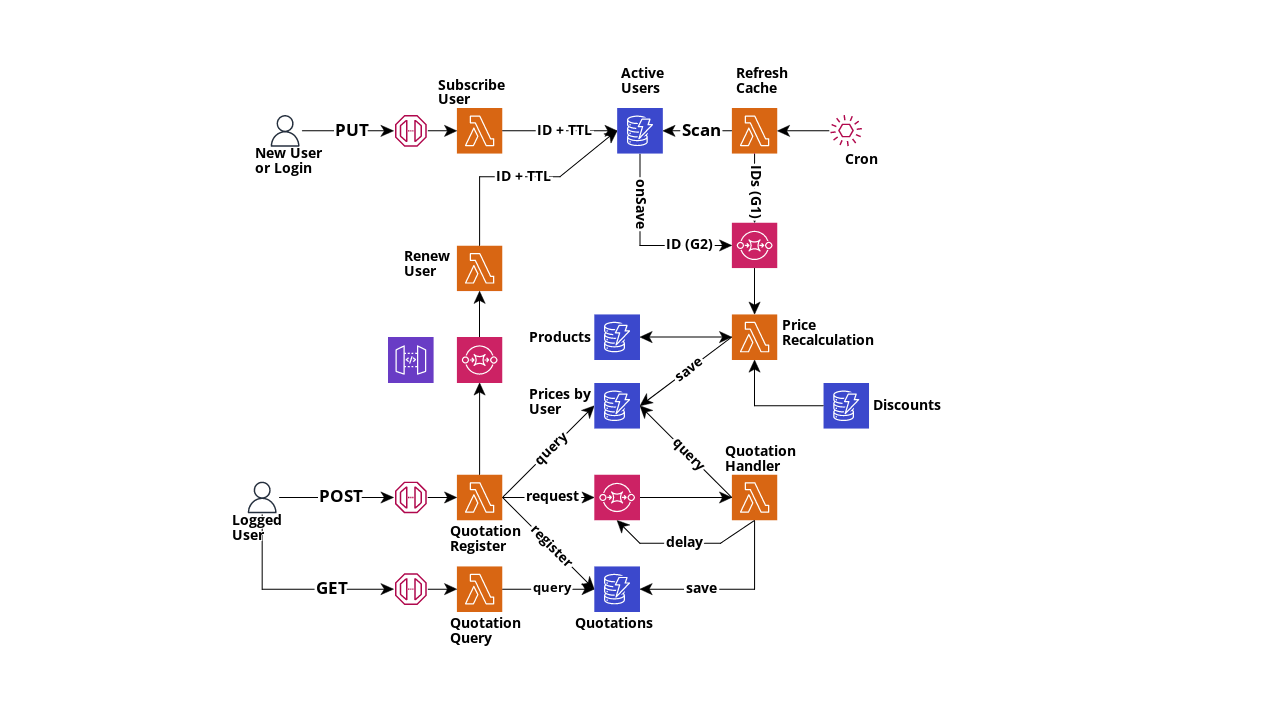
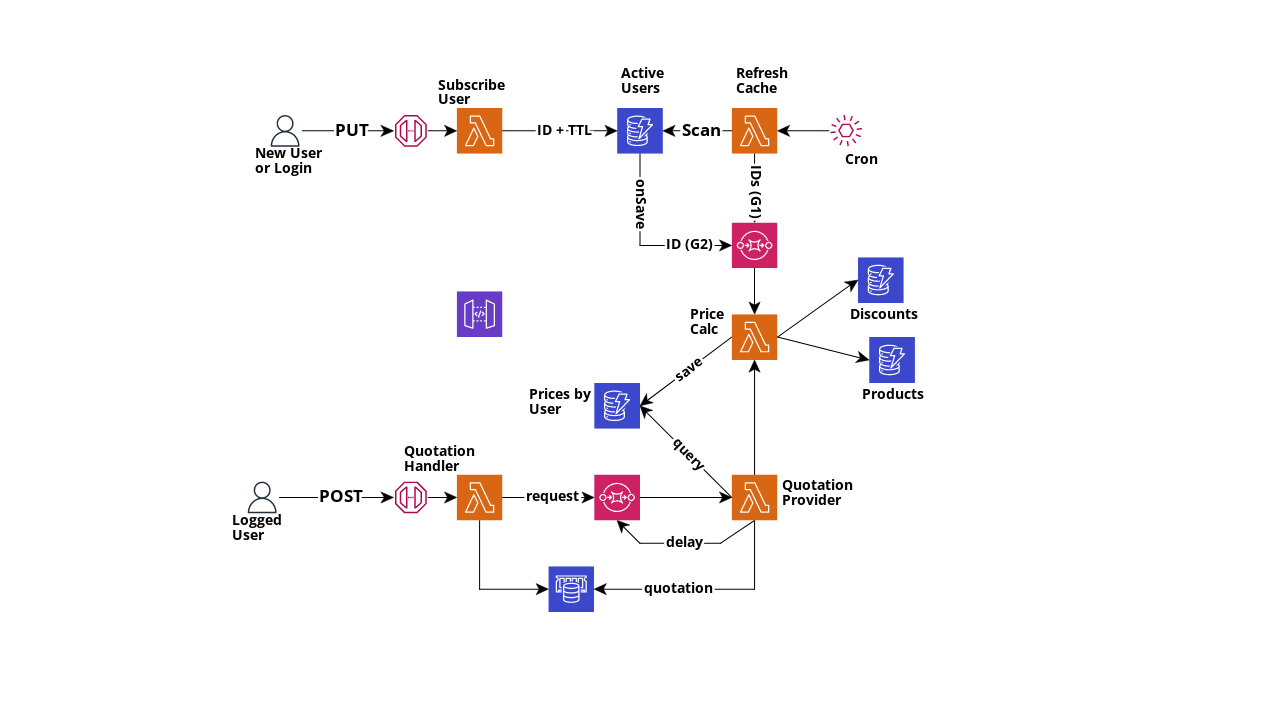
quotation and price calc integration

diff --git a/lambda_quotation_provider/handler/handler.go b/lambda_quotation_provider/handler/handler.go
@@ -9,11 +9,11 @@ import (
 	"time"
 
 	"github.com/aws/aws-lambda-go/events"
-	"github.com/aws/aws-lambda-go/lambda"
+	inv "github.com/aws/aws-lambda-go/lambda"
 	"github.com/aws/aws-sdk-go-v2/aws"
 	"github.com/aws/aws-sdk-go-v2/config"
 	"github.com/aws/aws-sdk-go-v2/service/dynamodb"
-	"github.com/aws/aws-sdk-go-v2/service/sns"
+	"github.com/aws/aws-sdk-go-v2/service/lambda"
 	"github.com/aws/aws-sdk-go-v2/service/sqs"
 	"github.com/ricardo-comar/organic-cache/gateway"
 	"github.com/ricardo-comar/organic-cache/model"
@@ -22,7 +22,7 @@ import (
 var cfg aws.Config
 var dyncli dynamodb.Client
 var sqscli sqs.Client
-var snscli sns.Client
+var lamcli lambda.Client
 
 func init() {
 	cfg, _ = config.LoadDefaultConfig(context.TODO(), func(o *config.LoadOptions) error {
@@ -32,18 +32,19 @@ func init() {
 
 	dyncli = *dynamodb.NewFromConfig(cfg)
 	sqscli = *sqs.NewFromConfig(cfg)
-	snscli = *sns.NewFromConfig(cfg)
+	lamcli = *lambda.NewFromConfig(cfg)
 
 	localendpoint, found := os.LookupEnv("LOCALSTACK_HOSTNAME")
 	if found {
-		dyncli = *dynamodb.NewFromConfig(cfg, dynamodb.WithEndpointResolver(dynamodb.EndpointResolverFromURL("http://"+localendpoint+":4566")))
-		sqscli = *sqs.New(sqs.Options{Credentials: cfg.Credentials, EndpointResolver: sqs.EndpointResolverFromURL("http://" + localendpoint + ":" + os.Getenv("EDGE_PORT"))})
-		snscli = *sns.New(sns.Options{Credentials: cfg.Credentials, EndpointResolver: sns.EndpointResolverFromURL("http://" + localendpoint + ":" + os.Getenv("EDGE_PORT"))})
+		localhost := "http://" + localendpoint + ":" + os.Getenv("EDGE_PORT")
+		dyncli = *dynamodb.NewFromConfig(cfg, dynamodb.WithEndpointResolver(dynamodb.EndpointResolverFromURL(localhost)))
+		sqscli = *sqs.New(sqs.Options{Credentials: cfg.Credentials, EndpointResolver: sqs.EndpointResolverFromURL(localhost)})
+		lamcli = *lambda.New(lambda.Options{Credentials: cfg.Credentials, EndpointResolver: lambda.EndpointResolverFromURL(localhost)})
 	}
 }
 
 func main() {
-	lambda.Start(handleMessages)
+	inv.Start(handleMessages)
 }
 
 func handleMessages(ctx context.Context, sqsEvent events.SQSEvent) error {
@@ -80,7 +81,10 @@ func handleMessage(ctx context.Context, msg events.SQSMessage) error {
 	}
 
 	if productPrices == nil {
-		retries := "0"
+
+		log.Println("Nenhuma cotação encontrada, postergando processamento")
+
+		retries := "1"
 		if retryCount := msg.MessageAttributes["RetryCount"].StringValue; retryCount != nil {
 			rCount, _ := strconv.Atoi(*retryCount)
 			retries = strconv.Itoa(rCount + 1)
@@ -89,9 +93,12 @@ func handleMessage(ctx context.Context, msg events.SQSMessage) error {
 				return nil
 			}
 
+		} else {
+			log.Println("Solicitando cálculo de preços")
+			gateway.RecalcMessage(ctx, &sqscli, quotationRequest.UserId)
 		}
 
-		log.Print("Nenhuma cotação encontrada, postergando processamento")
+		time.Sleep(time.Second)
 		gateway.RetryMessage(ctx, &sqscli, msgId, &retries, quotationRequest)
 
 	} else {

diff --git a/lambda_quotation_handler/handler/handler.go b/lambda_quotation_handler/handler/handler.go
@@ -3,7 +3,6 @@ package main
 import (
 	"context"
 	"encoding/json"
-	"log"
 	"net/http"
 	"os"
 
@@ -11,8 +10,6 @@ import (
 	"github.com/aws/aws-lambda-go/lambda"
 	"github.com/aws/aws-sdk-go-v2/aws"
 	"github.com/aws/aws-sdk-go-v2/config"
-	"github.com/aws/aws-sdk-go-v2/service/dynamodb"
-	"github.com/aws/aws-sdk-go-v2/service/sns"
 	"github.com/aws/aws-sdk-go-v2/service/sqs"
 	"github.com/google/uuid"
 	"github.com/ricardo-comar/organic-cache/gateway"
@@ -21,9 +18,7 @@ import (
 )
 
 var cfg aws.Config
-var dyncli dynamodb.Client
 var sqscli sqs.Client
-var snscli sns.Client
 
 func init() {
 	cfg, _ = config.LoadDefaultConfig(context.TODO(), func(o *config.LoadOptions) error {
@@ -31,15 +26,11 @@ func init() {
 		return nil
 	})
 
-	dyncli = *dynamodb.NewFromConfig(cfg)
 	sqscli = *sqs.NewFromConfig(cfg)
-	snscli = *sns.NewFromConfig(cfg)
 
 	localendpoint, found := os.LookupEnv("LOCALSTACK_HOSTNAME")
 	if found {
-		dyncli = *dynamodb.NewFromConfig(cfg, dynamodb.WithEndpointResolver(dynamodb.EndpointResolverFromURL("http://"+localendpoint+":4566")))
 		sqscli = *sqs.New(sqs.Options{Credentials: cfg.Credentials, EndpointResolver: sqs.EndpointResolverFromURL("http://" + localendpoint + ":" + os.Getenv("EDGE_PORT"))})
-		snscli = *sns.New(sns.Options{Credentials: cfg.Credentials, EndpointResolver: sns.EndpointResolverFromURL("http://" + localendpoint + ":" + os.Getenv("EDGE_PORT"))})
 	}
 }
 
@@ -59,9 +50,6 @@ func handleRequest(ctx context.Context, request events.APIGatewayProxyRequest) (
 		return events.APIGatewayProxyResponse{StatusCode: http.StatusBadRequest}, err
 	}
 
-	topicKey, err := gateway.SubscribeUser(ctx, &snscli, gateway.UserMessage{ID: quotationReq.UserId})
-	log.Printf("Usuário %v notificado: %v", quotationReq.UserId, topicKey)
-
 	reqId := uuid.New().String()
 
 	_, err = gateway.SendMessage(ctx, &sqscli, quotationReq, &reqId)
@@ -69,7 +57,7 @@ func handleRequest(ctx context.Context, request events.APIGatewayProxyRequest) (
 		return events.APIGatewayProxyResponse{StatusCode: http.StatusInternalServerError}, err
 	}
 
-	quotationResponse, err := service.ResponseWait(&ctx, &dyncli, reqId)
+	quotationResponse, err := service.ResponseWait(&ctx, reqId)
 
 	if err != nil {
 		return events.APIGatewayProxyResponse{StatusCode: http.StatusInternalServerError}, err

diff --git a/lambda_quotation_handler/service/service.go b/lambda_quotation_handler/service/service.go
@@ -6,34 +6,21 @@ import (
 	"log"
 	"time"
 
-	"github.com/aws/aws-sdk-go-v2/service/dynamodb"
 	"github.com/hazelcast/hazelcast-go-client"
+	"github.com/ricardo-comar/organic-cache/gateway"
 	"github.com/ricardo-comar/organic-cache/model"
 )
 
-func ResponseWait(ctx *context.Context, cli *dynamodb.Client, requestId string) (*model.QuotationEntity, error) {
+func ResponseWait(ctx *context.Context, requestId string) (*model.QuotationEntity, error) {
 
 	var quotation *model.QuotationEntity
 	var err error
-
-	// Init hazelcast client
-	config := hazelcast.Config{}
-	config.Cluster.Network.SetAddresses("hazelcast:5701")
-	client, err := hazelcast.StartNewClientWithConfig(*ctx, config)
-	if err != nil {
-		return nil, err
-	}
-
-	// Get a reference to the queue.
-	myTopic, err := client.GetTopic(*ctx, "quotation-response-topic")
-	if err != nil {
-		return nil, err
-	}
+	topic, err := gateway.HazelcastTopic(ctx)
 
 	done := make(chan bool, 1)
 
 	// Add a message listener to the topic.
-	_, err = myTopic.AddMessageListener(*ctx, func(event *hazelcast.MessagePublished) {
+	_, err = topic.AddMessageListener(*ctx, func(event *hazelcast.MessagePublished) {
 		log.Printf("**** Message received: %+v", string(event.Value.([]byte)[:]))
 
 		msg := model.QuotationEntity{}
@@ -52,9 +39,6 @@ func ResponseWait(ctx *context.Context, cli *dynamodb.Client, requestId string) 
 	}()
 
 	<-done
-
-	// Shutdown the client.
-	client.Shutdown(*ctx)
 
 	return quotation, err
 

diff --git a/lambda_quotation_provider/gateway/sqs.go b/lambda_quotation_provider/gateway/sqs.go
@@ -13,8 +13,6 @@ import (
 
 func RetryMessage(ctx context.Context, cli *sqs.Client, msgId *string, retryCount *string, message interface{}) (*string, error) {
 
-	log.Printf("RetryCount: %v | %v", retryCount, *retryCount)
-
 	body, _ := json.Marshal(message)
 	res, err := cli.SendMessage(ctx, &sqs.SendMessageInput{
 		MessageAttributes: map[string]types.MessageAttributeValue{
@@ -29,6 +27,24 @@ func RetryMessage(ctx context.Context, cli *sqs.Client, msgId *string, retryCoun
 		},
 		MessageBody: aws.String(string(body)),
 		QueueUrl:    aws.String(os.Getenv("QUOTATION_QUEUE")),
+	})
+
+	if err != nil {
+		log.Fatal(err)
+		return nil, err
+	}
+
+	return res.MessageId, nil
+}
+func RecalcMessage(ctx context.Context, cli *sqs.Client, userId string) (*string, error) {
+
+	payload, err := json.Marshal(map[string]interface{}{
+		"id": userId,
+	})
+
+	res, err := cli.SendMessage(ctx, &sqs.SendMessageInput{
+		MessageBody: aws.String(string(payload)),
+		QueueUrl:    aws.String(os.Getenv("RECALC_QUEUE")),
 	})
 
 	if err != nil {

diff --git a/lambda_user_subscribe/handler/handler.go b/lambda_user_subscribe/handler/handler.go
@@ -40,31 +40,9 @@ func main() {
 	lambda.Start(handleRequest)
 }
 
-type MyEvent struct {
-	Records []MyEventRecord `json:"Records"`
+func handleRequest(ctx context.Context, request events.APIGatewayProxyRequest) (events.APIGatewayProxyResponse, error) {
 
-	HTTPMethod string `json:"httpMethod"`
-	Body       string `json:"body"`
-}
-
-type MyEventRecord struct {
-	SNS MyEntity `json:"Sns"`
-}
-
-type MyEntity struct {
-	Message string `json:"Message"`
-}
-
-func handleRequest(ctx context.Context, request MyEvent) (events.APIGatewayProxyResponse, error) {
-
-	var body string
-	if len(request.Records) > 0 {
-		body = request.Records[0].SNS.Message
-	} else {
-		body = request.Body
-	}
-
-	entity, err := service.CreateEntity(body)
+	entity, err := service.CreateEntity(request.Body)
 	if err != nil {
 		log.Println("Invalid content: ", request.Body)
 		return events.APIGatewayProxyResponse{StatusCode: http.StatusBadRequest}, err

diff --git a/lambda_quotation_provider/gateway/lambda.go b/lambda_quotation_provider/gateway/lambda.go
@@ -1,0 +1,34 @@
+package gateway
+
+// import (
+// 	"context"
+// 	"encoding/json"
+// 	"log"
+// 	"os"
+
+// 	"github.com/aws/aws-sdk-go-v2/aws"
+// 	"github.com/aws/aws-sdk-go-v2/service/lambda"
+// 	"github.com/aws/aws-sdk-go-v2/service/lambda/types"
+// )
+
+// func RequestPriceCalc(ctx context.Context, lamcli lambda.Client, userId string) error {
+
+// 	payload, err := json.Marshal(map[string]interface{}{
+// 		"id": userId,
+// 	})
+
+// 	input := &lambda.InvokeInput{
+// 		FunctionName:   aws.String(os.Getenv("PRICE_CALC_LAMBDA")),
+// 		InvocationType: types.InvocationTypeEvent,
+// 		Payload:        payload,
+// 		Qualifier:      aws.String("1"),
+// 	}
+// 	log.Printf("Lambda %s input: %+v", os.Getenv("PRICE_CALC_LAMBDA"), input)
+
+// 	result, err := lamcli.Invoke(ctx, input)
+
+// 	log.Printf("Lambda response: %+v", result)
+// 	log.Printf("Lambda error: %+v", err)
+
+// 	return err
+// }

diff --git a/lambda_quotation_handler/gateway/hazelcast.go b/lambda_quotation_handler/gateway/hazelcast.go
@@ -1,0 +1,26 @@
+package gateway
+
+import (
+	"context"
+
+	"github.com/hazelcast/hazelcast-go-client"
+)
+
+func HazelcastTopic(ctx *context.Context) (*hazelcast.Topic, error) {
+
+	// Init hazelcast client
+	config := hazelcast.Config{}
+	config.Cluster.Network.SetAddresses("hazelcast:5701")
+	client, err := hazelcast.StartNewClientWithConfig(*ctx, config)
+	if err != nil {
+		return nil, err
+	}
+
+	// Get a reference to the queue.
+	topic, err := client.GetTopic(*ctx, "quotation-response-topic")
+	if err != nil {
+		return nil, err
+	}
+
+	return topic, nil
+}
